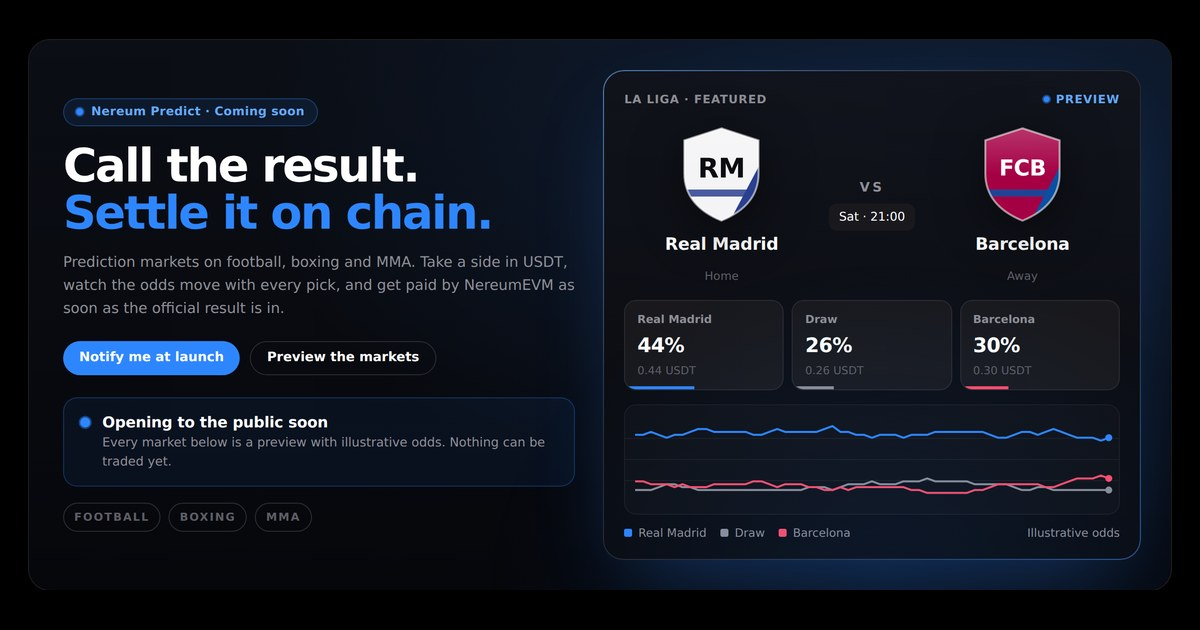
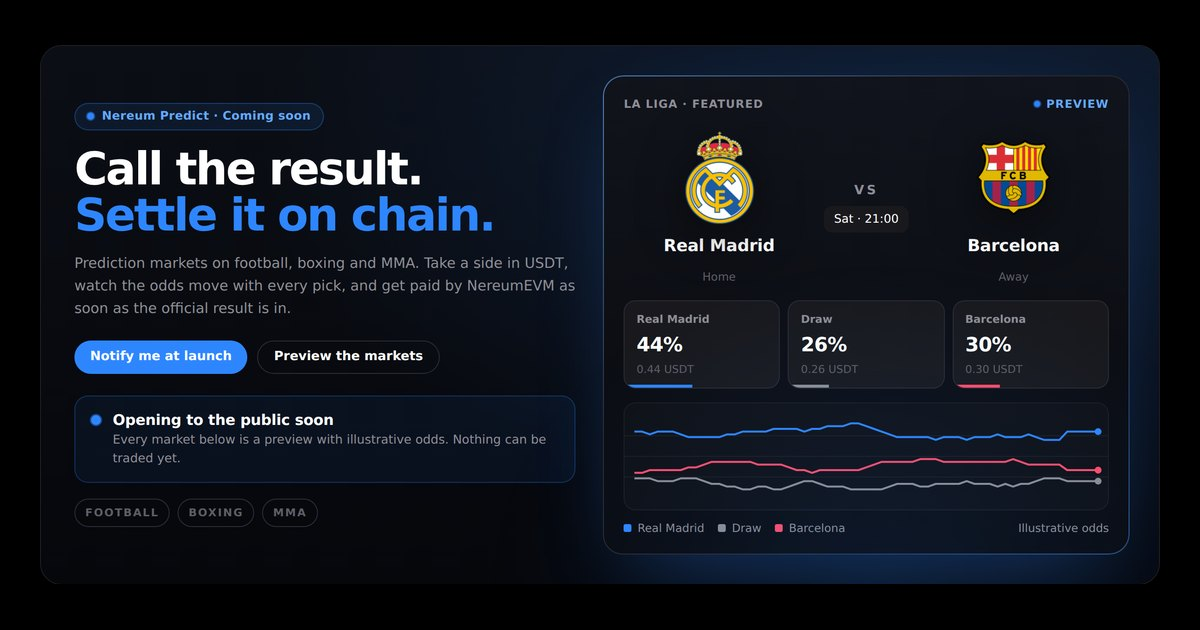
App Predict: the clubs' real crests in place of the drawn ones
Ten crests served from app/predict/logos (Juventus in its white version so it
shows on the dark cards). The note now says names and crests belong to their
clubs and imply no partnership. OG image regenerated.

Claude-Session: https://claude.ai/code/session_01LJT6Q3uWtj4pZqCrqcq3WD

diff --git a/app/index.html b/app/index.html
@@ -762,7 +762,7 @@ button.red-sel:hover{background:var(--campo2)}
 .pr-live{display:inline-flex;align-items:center;gap:6px;color:var(--ag-l)} .pr-live i{width:6px;height:6px;border-radius:50%;background:var(--ag);animation:agPing 1.8s infinite}
 .pr-vs{display:grid;grid-template-columns:1fr auto 1fr;align-items:center;gap:10px;margin:18px 0 16px}
 .pr-team{display:grid;justify-items:center;gap:10px;text-align:center}
-.pr-team svg{width:86px;height:98px;filter:drop-shadow(0 10px 24px rgba(0,0,0,.5))}
+.pr-team img{width:auto;height:98px;max-width:96px;object-fit:contain;filter:drop-shadow(0 10px 24px rgba(0,0,0,.5))}
 .pr-team b{font-size:17px;color:#fff;letter-spacing:-.01em}
 .pr-team span{font-size:11.5px;color:var(--t4)}
 .pr-mid{display:grid;justify-items:center;gap:6px}
@@ -795,7 +795,7 @@ button.red-sel:hover{background:var(--campo2)}
 .pr-card[data-s=boxing]::before,.pr-card[data-s=mma]::before{background:linear-gradient(90deg,var(--red),transparent 45%,transparent 55%,var(--blu))}
 .pr-ch svg{width:16px;height:16px;color:var(--ag-l)}
 .pr-row{display:flex;align-items:center;gap:10px;min-width:0}
-.pr-row svg.cr{flex:none;width:30px;height:34px}
+.pr-row img.cr{flex:none;width:30px;height:34px;object-fit:contain}
 .pr-row b{font-size:15px;color:#fff;font-weight:650;white-space:nowrap;overflow:hidden;text-overflow:ellipsis}
 .pr-row .p{margin-left:auto;font-size:13px;color:var(--t3);font-variant-numeric:tabular-nums}
 .pr-corner{flex:none;width:30px;height:30px;border-radius:8px;display:grid;place-items:center}
@@ -810,7 +810,7 @@ button.red-sel:hover{background:var(--campo2)}
 .pr-cf svg{width:13px;height:13px}
 .pr-cf .esp{flex:1}
 @media(max-width:1023px){ .pr-hero{grid-template-columns:1fr;padding:22px} .pr-hero h1{font-size:36px} }
-@media(max-width:560px){ .pr-hero h1{font-size:30px} .pr-team svg{width:64px;height:74px} .pr-team b{font-size:14px} .pr-o b{font-size:17px} .pr-grid{grid-template-columns:1fr} .pr-pasos{grid-template-columns:1fr 1fr} }
+@media(max-width:560px){ .pr-hero h1{font-size:30px} .pr-team img{height:74px;max-width:72px} .pr-team b{font-size:14px} .pr-o b{font-size:17px} .pr-grid{grid-template-columns:1fr} .pr-pasos{grid-template-columns:1fr 1fr} }
 /* agents */
 #vAgents{--ok:#A6F03C;--no:#FF4D6A;--ag:#2E86FF;--ag-l:#63A9FF}
 .ag-hero{display:grid;grid-template-columns:minmax(0,1fr) minmax(0,1.1fr);gap:24px;align-items:center;margin-bottom:18px;padding:28px 28px 28px 32px;border-radius:22px;
@@ -1820,7 +1820,7 @@ body.portada .top,body.portada .pie{display:none}
     <li style="--i:2"><em>03</em><b>Follow it live</b><span>Odds move as people pick. Sell your side before the end if you change your mind.</span></li>
     <li style="--i:3"><em>04</em><b>Settled by the chain</b><span>When the official result is published, NereumEVM pays the winning side. No one holds your funds in between.</span></li>
   </ol>
-  <p class="nota">Nereum Predict is not open yet. Teams, fights and odds on this page are a preview of the interface: the odds are illustrative, not prices from a market, and the crests are drawn for this preview, not official club badges. Prediction markets may not be available in every country.</p>
+  <p class="nota">Nereum Predict is not open yet. Teams, fights and odds on this page are a preview of the interface: the odds are illustrative, not prices from a market, and club names and crests belong to their clubs: they are shown to identify the teams and do not imply any partnership or endorsement. Prediction markets may not be available in every country.</p>
 </main>
 
 <!-- ══ p2p ══ -->
@@ -3786,24 +3786,16 @@ function agPintaReglas(){
   $$('#agExp .chp').forEach(b => b.classList.toggle('on', b.dataset.ex === p.ex));
 }
 /* ══ Nereum Predict (preview) ══
-   Football, boxing and MMA markets shown as a preview of the interface. The crests are drawn here in each club's
-   colours, they are not official badges. The odds are illustrative: they drift a little on their own so the page
+   Football, boxing and MMA markets shown as a preview of the interface, with each club's crest. The odds are illustrative: they drift a little on their own so the page
    feels alive, and are labelled as such everywhere. Nothing can be traded until Predict opens. */
 const PR_EQ = {
   RMA:['Real Madrid','#F4F4F6','#2A3F8F','RM'], BAR:['Barcelona','#A50044','#0B4FA3','FCB'], MCI:['Man City','#6CABDD','#1C2C5B','MC'],
   LIV:['Liverpool','#C8102E','#F4F4F6','LFC'], BAY:['Bayern','#DC052D','#0A5BB0','FCB'], PSG:['Paris SG','#0B2D5B','#DA291C','PSG'],
   INT:['Inter','#0068A8','#111318','IM'], JUV:['Juventus','#F4F4F6','#111318','JV'], ARS:['Arsenal','#E3121B','#F4F4F6','AFC'], CHE:['Chelsea','#0A4AA0','#F4F4F6','CFC']
 };
-/* an original crest: a shield split in the club's two colours, its initials, a thin rim */
+/* the club's crest, served from /app/predict/logos/ */
 function prCrest(k, cls = ''){
-  const [ , c1, c2, ini] = PR_EQ[k], id = 'cr' + k + Math.random().toString(36).slice(2, 7), dark = c => { const n = parseInt(c.slice(1), 16); return ((n >> 16) * .3 + ((n >> 8) & 255) * .59 + (n & 255) * .11) > 150; };
-  const tc = dark(c1) ? '#0B0D12' : '#fff', fs = ini.length > 2 ? 22 : 27;
-  return `<svg class="${cls}" viewBox="0 0 86 98" aria-hidden="true"><defs><clipPath id="${id}"><path d="M43 3 80 15v33c0 23-15 38-37 47C21 86 6 71 6 48V15z"/></clipPath>
-    <linearGradient id="${id}g" x1="0" y1="0" x2="0" y2="1"><stop offset="0" stop-color="#fff" stop-opacity=".22"/><stop offset=".5" stop-color="#fff" stop-opacity="0"/></linearGradient></defs>
-    <g clip-path="url(#${id})"><rect width="86" height="98" fill="${c1}"/><path d="M86 0v98H50L86 30z" fill="${c2}"/><rect y="64" width="86" height="7" fill="${c2}" opacity=".85"/>
-    <rect width="86" height="98" fill="url(#${id}g)"/></g>
-    <path d="M43 3 80 15v33c0 23-15 38-37 47C21 86 6 71 6 48V15z" fill="none" stroke="rgba(255,255,255,.55)" stroke-width="2"/>
-    <text x="43" y="${fs > 24 ? 52 : 50}" text-anchor="middle" font-family="system-ui,-apple-system,Segoe UI,sans-serif" font-weight="800" font-size="${fs}" letter-spacing="-.5" fill="${tc}">${ini}</text></svg>`;
+  return `<img class="pr-crest ${cls}" src="/app/predict/logos/${k.toLowerCase()}.png" alt="${PR_EQ[k][0]}" width="139" height="181" decoding="async">`;
 }
 const PR_ICO = {
   ball:'<svg viewBox="0 0 24 24" fill="none" stroke="currentColor" stroke-width="1.6"><circle cx="12" cy="12" r="9"/><path d="m12 7 4 3-1.5 4.5h-5L8 10z"/><path d="M12 3v4M21 10l-5 0M3 10h5M7 20l2.5-5.5M17 20l-2.5-5.5"/></svg>',

diff --git a/app/predict/index.html b/app/predict/index.html
@@ -12,8 +12,8 @@
 <meta property="og:url" content="https://nereum.xyz/app/predict/">
 <meta property="og:title" content="Nereum Predict — Football, boxing and MMA prediction markets. Coming soon">
 <meta property="og:description" content="Take a side on football, boxing and MMA in USDT and get paid by NereumEVM when the official result is in. Opening to the public soon.">
-<meta property="og:image" content="https://nereum.xyz/app/og/predict.jpg?v=1">
-<meta property="og:image:secure_url" content="https://nereum.xyz/app/og/predict.jpg?v=1">
+<meta property="og:image" content="https://nereum.xyz/app/og/predict.jpg?v=2">
+<meta property="og:image:secure_url" content="https://nereum.xyz/app/og/predict.jpg?v=2">
 <meta property="og:image:type" content="image/jpeg">
 <meta property="og:image:width" content="1200">
 <meta property="og:image:height" content="630">
@@ -21,7 +21,7 @@
 <meta name="twitter:card" content="summary_large_image">
 <meta name="twitter:title" content="Nereum Predict — Football, boxing and MMA prediction markets. Coming soon">
 <meta name="twitter:description" content="Take a side on football, boxing and MMA in USDT and get paid by NereumEVM when the official result is in. Opening to the public soon.">
-<meta name="twitter:image" content="https://nereum.xyz/app/og/predict.jpg?v=1">
+<meta name="twitter:image" content="https://nereum.xyz/app/og/predict.jpg?v=2">
 <meta name="twitter:image:alt" content="Nereum Predict — Football, boxing and MMA prediction markets. Coming soon">
 <script>location.replace('/app/#/predict');</script>
 <style>html,body{margin:0;background:#000;color:#fff;font:15px system-ui,sans-serif}a{color:#2E86FF}</style>
